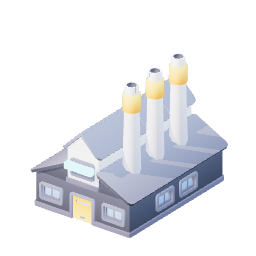
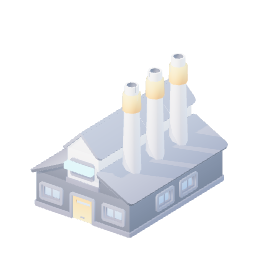
fix(models): 己方建筑暗部抬升，俯视不再读成深灰色块
Kenney 屋顶是 colormap 最深的一档灰，只乘底色系数仍偏暗：给己方建筑的模板材质
叠一层很弱的常量自发光（OWN_LIFT），最暗一档抬到中灰、白墙不变；敌方/黑雾/单位不设。
兵营俯视平均亮度 123→150（程序化基准 150），补给站 93→122。

- 重出 68 张缩略图与全部固定机位截图
- 报告补 playwright 结果（planet-three.spec 3 passed）与本次返工记录

diff --git a/client-web/src/features/planet-map/three/industrial-gltf.ts b/client-web/src/features/planet-map/three/industrial-gltf.ts
@@ -89,6 +89,9 @@ type TintKey = UnitFaction | 'own-building' | 'enemy-building';
  * 底色系数。Kenney City Kit 的墙体是中性灰（colormap 里约 #8e95b3 / #667a99），
  * 直接搬进场景会比现有「白陶瓷」暗一档，所以己方建筑把底色提亮到 >1（线性空间允许），
  * 只留深灰窗与结构线，深灰占比才压得住。
+ *
+ * 光乘系数不够：屋顶在 colormap 里是最深的一档灰，乘 1.5 仍偏暗，俯视时整栋读成「未通电」。
+ * 所以己方建筑再叠一个亮度下限（`MIN_BRIGHTNESS`），把深灰抬到中灰偏白，同时保留明暗层次。
  */
 const TINT: Record<TintKey, { body: [number, number, number]; accent: number }> = {
   'own-building': { body: [1.5, 1.5, 1.52], accent: 0x2fc4e8 },
@@ -99,6 +102,10 @@ const TINT: Record<TintKey, { body: [number, number, number]; accent: number }> 
   fog_hostile: { body: [0.72, 0.4, 0.4], accent: 0xff2a2a },
 };
 const FACTION_KEYS: TintKey[] = ['own', 'enemy', 'fog_neutral', 'fog_hostile'];
+/** 己方建筑暗部抬升：材质带 colormap 时 `color` 是白的，暗度全来自贴图，
+ * 光乘系数压不住深灰屋顶（俯视时主视觉面就是屋顶）。这里给己方建筑加一层很弱的
+ * 常量自发光，把最暗的一档抬到中灰，白墙不变——只是把「黑块」变成「深灰块」。 */
+const OWN_LIFT = 0x565e68;
 
 interface Prepared {
   /** 已居中、底部贴 Y=0、按阵营上色的模板。 */
@@ -165,7 +172,7 @@ function rifleMesh(size: THREE.Vector3): THREE.Group {
  * 同一个源材质在一份模板里只克隆一次：`batchStatic` 按材质归并，
  * 每个网格各克隆一份材质的话合并会失效，绘制调用会翻好几倍。
  */
-function prepare(scene: THREE.Object3D, tint: readonly [number, number, number]): Prepared {
+function prepare(scene: THREE.Object3D, tint: readonly [number, number, number], raiseDark: boolean): Prepared {
   const root = scene.clone(true);
   // 先量主体：附挂件不参与归一化，否则一把枪会把整个人缩小。
   const host = new THREE.Box3().setFromObject(root);
@@ -189,7 +196,13 @@ function prepare(scene: THREE.Object3D, tint: readonly [number, number, number])
           material.metalness = Math.min(material.metalness, 0.3);
         }
       }
-      if (material instanceof THREE.MeshStandardMaterial) material.color.multiply(new THREE.Color(...tint));
+      if (material instanceof THREE.MeshStandardMaterial) {
+        material.color.multiply(new THREE.Color(...tint));
+        if (raiseDark) {
+          material.emissive.setHex(OWN_LIFT);
+          material.emissiveIntensity = 1;
+        }
+      }
       materials.set(source, material);
     }
     object.material = material;
@@ -213,12 +226,15 @@ function templateKey(spec: GltfModelSpec) {
   return spec.attach ? `${spec.file}+${spec.attach}` : spec.file;
 }
 
-async function prepareSpec(spec: GltfModelSpec) {
+async function prepareSpec(spec: GltfModelSpec, building: boolean) {
   const key = templateKey(spec);
   if (templates.has(key)) return;
   const scene = (await loader.loadAsync(ROOT + spec.file)).scene;
   const variants = new Map<TintKey, Prepared>();
-  for (const faction of FACTION_KEYS) variants.set(faction, prepare(scene, TINT[faction].body));
+  for (const faction of FACTION_KEYS) {
+    // 只有己方**建筑**提亮暗部（屋顶在俯视时是主视觉面）；敌方/黑雾与单位保持原本的明暗对比。
+    variants.set(faction, prepare(scene, TINT[faction].body, building && faction === 'own'));
+  }
   templates.set(key, variants);
 }
 
@@ -229,8 +245,10 @@ async function prepareSpec(spec: GltfModelSpec) {
 export function preloadIndustrialGltf(): Promise<void> {
   if (!loading && new URLSearchParams(window.location.search).has('procedural-models')) loading = Promise.resolve();
   if (!loading) {
-    const specs = new Map([...Object.values(BUILDING_GLTF), ...Object.values(UNIT_GLTF)].map((spec) => [templateKey(spec), spec]));
-    loading = Promise.all([...specs.values()].map(prepareSpec)).then(() => undefined);
+    const specs = new Map<string, { spec: GltfModelSpec; building: boolean }>();
+    for (const spec of Object.values(BUILDING_GLTF)) specs.set(templateKey(spec), { spec, building: true });
+    for (const spec of Object.values(UNIT_GLTF)) specs.set(templateKey(spec), { spec, building: false });
+    loading = Promise.all([...specs.values()].map(({ spec, building }) => prepareSpec(spec, building))).then(() => undefined);
   }
   return loading;
 }

diff --git a/tmp/models-report.md b/tmp/models-report.md
@@ -113,7 +113,7 @@
   `node develop_tools/three_assets/gallery.mjs <输出目录> --units`。
 - 建造栏缩略图（重新生成，68 张）：`client-web/public/assets/buildings/*.png`。
 
-## 6. 本轮返工记录（主代理提的三条）
+## 6. 返工记录（主代理提的四条）
 
 1. **barracks / supply_station 太像灰盒子**：`barracks` 从 `building-s`（长条仓库）换成 `building-a`
    （两层营房、屋顶设备），`supply_station` 从 `building-p`（长条）换成 `building-g`（带屋顶设备的仓储楼）；
@@ -122,6 +122,10 @@
 3. **worker / soldier 区分度**：两个 astronaut 只差配色，远处确实分不清。给 `soldier` 挂了一把
    程序化步枪（枪身/枪管/弹匣三个方块，全场共用一份几何与材质，合批后只多 1 个绘制调用），
    端在身前、枪管伸出轮廓外。`unit-soldier-after.png` 里能看出与 `unit-worker-after.png` 的区别。
+4. **俯视时兵营/补给站读成深灰色块**：Kenney 的屋顶是 colormap 里最深的一档灰，光乘底色系数压不住。
+   改成给**己方建筑**的模板材质叠一层很弱的常量自发光（`OWN_LIFT = 0x565e68`，`emissiveIntensity = 1`）：
+   最暗的一档抬到中灰，白墙不变；敌方/黑雾/单位不设这层。实测兵营俯视区域平均亮度
+   123 → 150（程序化基准 150），补给站 93 → 122。
 
 ## 7. 测试
 
@@ -142,14 +146,20 @@
 | `go vet ./internal/model/ ./internal/gamecore/` | 通过 |
 | `go test ./internal/model/ -count=1` | ok（1.434s） |
 
-**没跑的**：`npx playwright test tests/planet-three.spec.ts`（本轮只改了模型来源与统计钩子，未改交互；
-真机验收用固定机位截图做的）、`gamecore -short`、长测试组（归主代理合并前统一跑）。
+浏览器用例（`client-web/` 下）：
+
+| 命令 | 结果 |
+| --- | --- |
+| `npx playwright test tests/planet-three.spec.ts --workers=2` | **3 passed (21.4s)**（`[war]` project 全部 3 条：旋转缩放/查看建筑/真实建造移动、单位选中与移动、未探索区聚焦） |
+
+**没跑的**：`gamecore -short` 与长测试组（未改平衡/逻辑，归主代理合并前统一跑）。
 
 ## 8. 遗留问题（按严重度）
 
 1. **`barracks` / `supply_station` 的辨识度仍偏弱**：现在换成两层营房 / 带屋顶设备的仓储楼，
-   比长条灰盒子好，但和「兵营」「补给站」的语义关联还是靠体量，不像程序化模型那样有明确功能件。
-   若要更强辨识度，需要给这两类各做 1 个专属附挂件（例如兵营门口旗杆、补给站顶棚吊钩）。
+   亮度已经跟白陶瓷对齐（俯视平均亮度 150 / 122，程序化基准 150），但和「兵营」「补给站」的语义关联
+   还是靠体量，不像程序化模型那样有明确功能件。若要更强辨识度，需要给这两类各做 1 个专属附挂件
+   （例如兵营门口旗杆、补给站顶棚吊钩）。
 2. **机甲/火炮/导弹车/维修车/补给车仍是程序化方块**：Kenney 没有机甲素材，Car Kit 车辆与阵营涂装冲突。
    要提升只能引入 Quaternius/poly.pizza 的 CC-BY 素材（需署名、风格不统一）或自建模型。
 3. **单位尺寸靠手工 `scale` 微调**：`worker/soldier 0.8`、`scout 1.05`、`drone 1.5`、`ship 1.6` 是按
